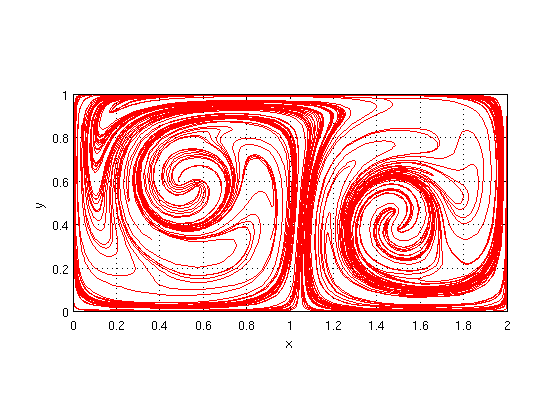
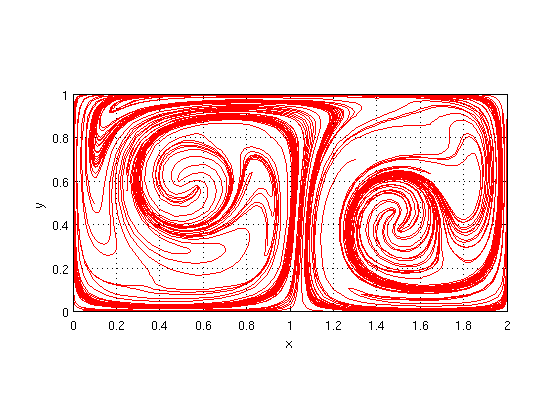
Update documentation with shearline analysis

Changed region(s): [[0.1214, 0.2167, 0.9107, 0.7429]]

diff --git a/html/lcs_user_guide.html b/html/lcs_user_guide.html
@@ -1,4 +1,3 @@
-
 <!DOCTYPE html
   PUBLIC "-//W3C//DTD HTML 4.01 Transitional//EN">
 <html><head>
@@ -6,7 +5,7 @@
    <!--
 This HTML was auto-generated from MATLAB code.
 To make changes, update the MATLAB code and republish this document.
-      --><title>Lagrangian Coherent Structures Toolbox User Guide</title><meta name="generator" content="MATLAB 7.14"><link rel="schema.DC" href="http://purl.org/dc/elements/1.1/"><meta name="DC.date" content="2012-09-06"><meta name="DC.source" content="lcs_user_guide.m"><style type="text/css">
+      --><title>Lagrangian Coherent Structures Toolbox User Guide</title><meta name="generator" content="MATLAB 7.14"><link rel="schema.DC" href="http://purl.org/dc/elements/1.1/"><meta name="DC.date" content="2012-09-10"><meta name="DC.source" content="lcs_user_guide.m"><style type="text/css">
 html,body,div,span,applet,object,iframe,h1,h2,h3,h4,h5,h6,p,blockquote,pre,a,abbr,acronym,address,big,cite,code,del,dfn,em,font,img,ins,kbd,q,s,samp,small,strike,strong,sub,sup,tt,var,b,u,i,center,dl,dt,dd,ol,ul,li,fieldset,form,label,legend,table,caption,tbody,tfoot,thead,tr,th,td{margin:0;padding:0;border:0;outline:0;font-size:100%;vertical-align:baseline;background:transparent}body{line-height:1}ol,ul{list-style:none}blockquote,q{quotes:none}blockquote:before,blockquote:after,q:before,q:after{content:'';content:none}:focus{outine:0}ins{text-decoration:none}del{text-decoration:line-through}table{border-collapse:collapse;border-spacing:0}
 
 html { min-height:100%; margin-bottom:1px; }
@@ -55,7 +54,7 @@ span.syscmd { color:#B28C00 }
 .footer { width:auto; padding:10px 0px; margin:25px 0px 0px; border-top:1px dotted #878787; font-size:0.8em; line-height:140%; font-style:italic; color:#878787; text-align:left; float:none; }
 .footer p { margin:0px; }
 
-  </style></head><body><div class="content"><h1>Lagrangian Coherent Structures Toolbox User Guide</h1><!--introduction--><!--/introduction--><h2>Contents</h2><div><ul><li><a href="#1">Introduction</a></li><li><a href="#2">Flow definition</a></li><li><a href="#4">Flow animation</a></li><li><a href="#6">Hyperbolic barriers</a></li><li><a href="#12">Parabolic barriers</a></li><li><a href="#13">Elliptic barriers</a></li></ul></div><h2>Introduction<a name="1"></a></h2><p>The LCS toolbox is demonstrated by analyzing a double gyre flow:</p><p><img src="lcs_user_guide_eq46362.png" alt="$\dot x = -\pi A \sin[-\pi f(x,t)] \cos(\pi y)$"></p><p><img src="lcs_user_guide_eq89183.png" alt="$\dot y = \pi A \cos[\pi f(x,t)] \sin(\pi y) \frac{\partial f(x,t)}{\partial x}$"></p><p>where</p><p><img src="lcs_user_guide_eq34228.png" alt="$f(x,t) = \epsilon \sin(\omega t)x^2 + [1 - 2 \epsilon \sin(\omega t)] x$"></p><p>and <img src="lcs_user_guide_eq31461.png" alt="$A$">, <img src="lcs_user_guide_eq97780.png" alt="$\epsilon$"> and <img src="lcs_user_guide_eq84050.png" alt="$\omega$"> are constants. Further details are availaibe in <a href="http://dx.doi.org/10.1016/j.physd.2005.10.007">DOI:10.1016/j.physd.2005.10.007</a>, <a href="http://dx.doi.org/10.5194/npg-7-59-2000">DOI:10.5194/npg-7-59-2000</a>, and <a href="http://dx.doi.org/10.5194/npg-4-223-1997">DOI:10.5194/npg-4-223-1997</a>.</p><h2>Flow definition<a name="2"></a></h2><p>The flow vector field is defined as a symbolic function. The definition for the double gyre is:</p><pre class="codeinput">t = sym(<span class="string">'t'</span>);
+  </style></head><body><div class="content"><h1>Lagrangian Coherent Structures Toolbox User Guide</h1><!--introduction--><!--/introduction--><h2>Contents</h2><div><ul><li><a href="#1">Introduction</a></li><li><a href="#2">Flow definition</a></li><li><a href="#4">Flow animation</a></li><li><a href="#6">Hyperbolic barriers</a></li><li><a href="#12">Parabolic barriers</a></li><li><a href="#17">Elliptic barriers</a></li></ul></div><h2>Introduction<a name="1"></a></h2><p>The LCS toolbox is demonstrated by analyzing a double gyre flow:</p><p><img src="lcs_user_guide_eq46362.png" alt="$\dot x = -\pi A \sin[-\pi f(x,t)] \cos(\pi y)$"></p><p><img src="lcs_user_guide_eq89183.png" alt="$\dot y = \pi A \cos[\pi f(x,t)] \sin(\pi y) \frac{\partial f(x,t)}{\partial x}$"></p><p>where</p><p><img src="lcs_user_guide_eq34228.png" alt="$f(x,t) = \epsilon \sin(\omega t)x^2 + [1 - 2 \epsilon \sin(\omega t)] x$"></p><p>and <img src="lcs_user_guide_eq31461.png" alt="$A$">, <img src="lcs_user_guide_eq97780.png" alt="$\epsilon$"> and <img src="lcs_user_guide_eq84050.png" alt="$\omega$"> are constants. Further details are availaibe in <a href="http://dx.doi.org/10.1016/j.physd.2005.10.007">DOI:10.1016/j.physd.2005.10.007</a>, <a href="http://dx.doi.org/10.5194/npg-7-59-2000">DOI:10.5194/npg-7-59-2000</a>, and <a href="http://dx.doi.org/10.5194/npg-4-223-1997">DOI:10.5194/npg-4-223-1997</a>.</p><h2>Flow definition<a name="2"></a></h2><p>The flow vector field is defined as a symbolic function. The definition for the double gyre is:</p><pre class="codeinput">t = sym(<span class="string">'t'</span>);
 x = sym(<span class="string">'x'</span>);
 y = sym(<span class="string">'y'</span>);
 
@@ -74,44 +73,77 @@ flow = set_flow_resolution(uint64([2 1]*10),flow);
 </pre><img vspace="5" hspace="5" src="lcs_user_guide_01.png" alt=""> <p>Parameters can be changed and the animation re-run. For example</p><pre class="codeinput">flow = set_flow_timespan([0 30],flow);
 flow = set_flow_resolution(uint64([2 1]*20),flow);
 flow = animate_flow(flow);
-</pre><img vspace="5" hspace="5" src="lcs_user_guide_02.png" alt=""> <h2>Hyperbolic barriers<a name="6"></a></h2><p>Strainlines are computed based on a resolution representing a grid of initial conditions:</p><pre class="codeinput">strainline = set_strainline_resolution(uint64([2 1]*5));
+</pre><img vspace="5" hspace="5" src="lcs_user_guide_02.png" alt=""> <h2>Hyperbolic barriers<a name="6"></a></h2><p>Hyperbolic barriers are obtained from strainlines. Strainlines are computed based on a resolution representing a grid of initial conditions:</p><pre class="codeinput">strainline = set_strainline_resolution(uint64([2 1]*5));
 </pre><p>A maximum length for strainlines must be specified. Strainlines are integrated until reaching the boundary. Nonetheless, a maximum length needs to be specified to bound integration time. This maximum length is found heuristically.</p><pre class="codeinput">strainline = set_strainline_max_length(10,strainline);
 </pre><p>The following parameters are used to filter LCSs from all calculated strainlines. To start, these parameters are set to display all strainlines.</p><pre class="codeinput">strainline = set_strainline_geodesic_deviation_tol(inf,strainline);
 strainline = set_strainline_length_tol(0,strainline);
 strainline.filteringMethod = <span class="string">'hausdorff'</span>;
 strainline.filteringDistanceTol = 0;
-</pre><p>This specifies everything necessary. The function strain_lcs_script is used to calculate hyperbolic barriers:</p><pre class="codeinput">doubleGyre = struct(<span class="string">'flow'</span>,flow,<span class="string">'strainline'</span>,strainline);
+</pre><p>This specifies everything necessary. The function strain_lcs_script is calculates and plots all strainlines:</p><pre class="codeinput">doubleGyre = struct(<span class="string">'flow'</span>,flow,<span class="string">'strainline'</span>,strainline);
 doubleGyre = strain_lcs_script(doubleGyre);
 </pre><pre class="codeoutput">
+Warning: 13 NaN points. Total number of points: 965 
 Geodesic deviation statistics:
-	minimum = 1.73995e-50
-	maximum = 2.01744e+21
-	mean = 2.35442e+18
-	median = 1.86834e-05
-Number of strainline segments: 45
-Number of LCS segments: 45
-</pre><img vspace="5" hspace="5" src="lcs_user_guide_03.png" alt=""> <p>The strainlines appear quite jagged. To fix this, the flow resolution needs to be increased and the ODE integration accuracy decreased.</p><pre class="codeinput">doubleGyre.flow = set_flow_resolution(uint64([2 1]*500),doubleGyre.flow);
-doubleGyre.strainline = set_strainline_ode_solver_options(odeset(<span class="string">'relTol'</span>,1e-6),doubleGyre.strainline);
+	minimum = 2.9576e-15
+	maximum = 301.543
+	mean = 1.37505
+	median = 1.55004e-06
+Number of strainline segments: 48
+Number of LCS segments: 48
+</pre>
+<img vspace="5" hspace="5" src="lcs_user_guide_03.png" alt="">
+<p>The strainlines appear quite jagged. To fix this, the flow resolution needs to be increased and the ODE integration error tolerance decreased.</p>
+<pre class="codeinput">doubleGyre.flow = set_flow_resolution(uint64([2 1]*1000),doubleGyre.flow);
+doubleGyre.strainline = set_strainline_ode_solver_options(<span class="keyword">...</span>
+    odeset(<span class="string">'relTol'</span>,1e-6),doubleGyre.strainline);
 load(<span class="string">'datasets/doubleGyre'</span>) <span class="comment">% Load precomputed data for speed</span>
 doubleGyre = strain_lcs_script(doubleGyre);
-</pre><pre class="codeoutput">Geodesic deviation statistics:
-	minimum = 1.12418e-49
-	maximum = 1.02952e+15
-	mean = 1.3878e+12
-	median = 4.00551e-05
-</pre><img vspace="5" hspace="5" src="lcs_user_guide_04.png" alt=""> <p>Filtering parameters are adjusted to find significant LCSs</p><pre class="codeinput">doubleGyre.strainline = set_strainline_geodesic_deviation_tol(.05,doubleGyre.strainline);
-doubleGyre.strainline = set_strainline_length_tol(.5,doubleGyre.strainline);
-doubleGyre.strainline = set_strainline_hausdorff_distance(.5,doubleGyre.strainline);
+</pre><pre class="codeoutput">Warning: 53 NaN points. Total number of points: 8856 
+Geodesic deviation statistics:
+	minimum = 2.00232e-24
+	maximum = 367.654
+	mean = 3.26391
+	median = 2.90031e-05
+</pre><img vspace="5" hspace="5" src="lcs_user_guide_04.png" alt=""> <p>Filtering parameters are adjusted to find significant hyperbolic barriers</p><pre class="codeinput">doubleGyre.strainline = set_strainline_geodesic_deviation_tol(.05,<span class="keyword">...</span>
+    doubleGyre.strainline);
+doubleGyre.strainline = set_strainline_length_tol(.5,<span class="keyword">...</span>
+    doubleGyre.strainline);
+doubleGyre.strainline = set_strainline_hausdorff_distance(.5,<span class="keyword">...</span>
+    doubleGyre.strainline);
 doubleGyre = strain_lcs_script(doubleGyre);
-</pre><pre class="codeoutput">Geodesic deviation statistics:
-	minimum = 1.12418e-49
-	maximum = 1.02952e+15
-	mean = 1.3878e+12
-	median = 4.00551e-05
-Number of strainline segments: 191
-Number of LCS segments: 9
-</pre><img vspace="5" hspace="5" src="lcs_user_guide_05.png" alt=""> <h2>Parabolic barriers<a name="12"></a></h2><h2>Elliptic barriers<a name="13"></a></h2><p class="footer"><br>
-      Published with MATLAB&reg; 7.14<br></p></div><!--
+</pre><pre class="codeoutput">Warning: 53 NaN points. Total number of points: 8856 
+Geodesic deviation statistics:
+	minimum = 2.00232e-24
+	maximum = 367.654
+	mean = 3.26391
+	median = 2.90031e-05
+Number of strainline segments: 116
+Number of LCS segments: 4
+</pre><img vspace="5" hspace="5" src="lcs_user_guide_05.png" alt=""> <h2>Parabolic barriers<a name="12"></a></h2><p>Parabolic barriers are obtained from shearlines. The calculation of shearlines is similar to strainlines. A grid of initial conditions is specified:</p><pre class="codeinput">doubleGyre.flow = set_flow_resolution(uint64([2 1]*50),doubleGyre.flow);
+doubleGyre.shearline = set_shearline_resolution(uint64([2 1]*5));
+</pre><p>A maximum length for shearlines is specified. This length is found heuristically</p><pre class="codeinput">doubleGyre.shearline = set_shearline_max_length(10,doubleGyre.shearline);
+</pre><p>The geodesic deviation is used as a filtering parameter</p><pre class="codeinput">doubleGyre.shearline = set_shearline_average_geodesic_deviation_tol(<span class="keyword">...</span>
+    [inf inf],doubleGyre.shearline);
+</pre><p>The ODE integration error tolerance should be decreased. Then the function shear_lcs_script calculates and plots all shearlines.</p><pre class="codeinput">doubleGyre.shearline = set_strainline_ode_solver_options(<span class="keyword">...</span>
+    odeset(<span class="string">'relTol'</span>,1e-6),doubleGyre.shearline);
+doubleGyre = shear_lcs_script(doubleGyre);
+</pre>
+<pre class="codeoutput">
+Warning: Nonpositive eigenvalues 
+Warning: averageGeodesicDeviation = inf workaround used 
+Warning: averageGeodesicDeviation = inf workaround used 
+</pre>
+<img vspace="5" hspace="5" src="lcs_user_guide_06.png" alt="">
+<p>Filtering parameters are adjusted to find significant shearlines</p>
+<pre class="codeinput">doubleGyre.shearline = set_shearline_average_geodesic_deviation_tol([1 1],doubleGyre.shearline);
+doubleGyre = shear_lcs_script(doubleGyre);
+</pre>
+<img vspace="5" hspace="5" src="lcs_user_guide_07.png" alt="">
+
+<h2>Elliptic barriers<a name="17"></a></h2>
+<p class="footer">
+<br>
+Published with MATLAB&reg; 7.14<br></p></div><!--
 ##### SOURCE BEGIN #####
 %% Lagrangian Coherent Structures Toolbox User Guide
 %
@@ -165,8 +197,8 @@ flow = set_flow_resolution(uint64([2 1]*20),flow);
 flow = animate_flow(flow);
 
 %% Hyperbolic barriers
-% Strainlines are computed based on a resolution representing a grid of 
-% initial conditions:
+% Hyperbolic barriers are obtained from strainlines. Strainlines are
+% computed based on a resolution representing a grid of initial conditions:
 strainline = set_strainline_resolution(uint64([2 1]*5));
 
 %%
@@ -187,27 +219,57 @@ strainline.filteringDistanceTol = 0;
 
 %%
 % This specifies everything necessary. The function strain_lcs_script is
-% used to calculate hyperbolic barriers:
+% calculates and plots all strainlines:
 doubleGyre = struct('flow',flow,'strainline',strainline);
 doubleGyre = strain_lcs_script(doubleGyre);
 
 %%
 % The strainlines appear quite jagged. To fix this, the flow resolution
-% needs to be increased and the ODE integration accuracy decreased.
+% needs to be increased and the ODE integration error tolerance decreased.
 doubleGyre.flow = set_flow_resolution(uint64([2 1]*500),doubleGyre.flow);
-doubleGyre.strainline = set_strainline_ode_solver_options(odeset('relTol',1e-6),doubleGyre.strainline);
+doubleGyre.strainline = set_strainline_ode_solver_options(...
+    odeset('relTol',1e-6),doubleGyre.strainline);
 load('datasets/doubleGyre') % Load precomputed data for speed
 doubleGyre = strain_lcs_script(doubleGyre);
 
 %%
-% Filtering parameters are adjusted to find significant LCSs
-doubleGyre.strainline = set_strainline_geodesic_deviation_tol(.05,doubleGyre.strainline);
-doubleGyre.strainline = set_strainline_length_tol(.5,doubleGyre.strainline);
-doubleGyre.strainline = set_strainline_hausdorff_distance(.5,doubleGyre.strainline);
+% Filtering parameters are adjusted to find significant hyperbolic barriers
+doubleGyre.strainline = set_strainline_geodesic_deviation_tol(.05,...
+    doubleGyre.strainline);
+doubleGyre.strainline = set_strainline_length_tol(.5,...
+    doubleGyre.strainline);
+doubleGyre.strainline = set_strainline_hausdorff_distance(.5,...
+    doubleGyre.strainline);
 doubleGyre = strain_lcs_script(doubleGyre);
 
 %% Parabolic barriers
-% 
+% Parabolic barriers are obtained from shearlines. The calculation of
+% shearlines is similar to strainlines. A grid of initial conditions is
+% specified:
+doubleGyre.flow = set_flow_resolution(uint64([2 1]*50),doubleGyre.flow);
+doubleGyre.shearline = set_shearline_resolution(uint64([2 1]*5));
+
+%%
+% A maximum length for shearlines is specified. This length is found
+% heuristically
+doubleGyre.shearline = set_shearline_max_length(10,doubleGyre.shearline);
+
+%%
+% The geodesic deviation is used as a filtering parameter
+doubleGyre.shearline = set_shearline_average_geodesic_deviation_tol(...
+    [inf inf],doubleGyre.shearline);
+
+%%
+% The ODE integration error tolerance should be decreased. Then the
+% function shear_lcs_script calculates and plots all shearlines.
+doubleGyre.shearline = set_strainline_ode_solver_options(...
+    odeset('relTol',1e-6),doubleGyre.shearline);
+doubleGyre = shear_lcs_script(doubleGyre);
+
+%%
+% Filtering parameters are adjusted to find significant shearlines
+doubleGyre.shearline = set_shearline_average_geodesic_deviation_tol([1 1],doubleGyre.shearline);
+doubleGyre = shear_lcs_script(doubleGyre);
 
 %% Elliptic barriers
 %

diff --git a/html/lcs_product_page.html b/html/lcs_product_page.html
@@ -6,7 +6,7 @@
    <!--
 This HTML was auto-generated from MATLAB code.
 To make changes, update the MATLAB code and republish this document.
-      --><title>Lagrangian Coherent Structures Toolbox</title><meta name="generator" content="MATLAB 7.14"><link rel="schema.DC" href="http://purl.org/dc/elements/1.1/"><meta name="DC.date" content="2012-09-06"><meta name="DC.source" content="lcs_product_page.m"><style type="text/css">
+      --><title>Lagrangian Coherent Structures Toolbox</title><meta name="generator" content="MATLAB 7.14"><link rel="schema.DC" href="http://purl.org/dc/elements/1.1/"><meta name="DC.date" content="2012-09-10"><meta name="DC.source" content="lcs_product_page.m"><style type="text/css">
 html,body,div,span,applet,object,iframe,h1,h2,h3,h4,h5,h6,p,blockquote,pre,a,abbr,acronym,address,big,cite,code,del,dfn,em,font,img,ins,kbd,q,s,samp,small,strike,strong,sub,sup,tt,var,b,u,i,center,dl,dt,dd,ol,ul,li,fieldset,form,label,legend,table,caption,tbody,tfoot,thead,tr,th,td{margin:0;padding:0;border:0;outline:0;font-size:100%;vertical-align:baseline;background:transparent}body{line-height:1}ol,ul{list-style:none}blockquote,q{quotes:none}blockquote:before,blockquote:after,q:before,q:after{content:'';content:none}:focus{outine:0}ins{text-decoration:none}del{text-decoration:line-through}table{border-collapse:collapse;border-spacing:0}
 
 html { min-height:100%; margin-bottom:1px; }

diff --git a/html/strain_lcs_script_help.html b/html/strain_lcs_script_help.html
@@ -6,7 +6,7 @@
    <!--
 This HTML was auto-generated from MATLAB code.
 To make changes, update the MATLAB code and republish this document.
-      --><title>strain_lcs_script</title><meta name="generator" content="MATLAB 7.14"><link rel="schema.DC" href="http://purl.org/dc/elements/1.1/"><meta name="DC.date" content="2012-09-06"><meta name="DC.source" content="strain_lcs_script_help.m"><style type="text/css">
+      --><title>strain_lcs_script</title><meta name="generator" content="MATLAB 7.14"><link rel="schema.DC" href="http://purl.org/dc/elements/1.1/"><meta name="DC.date" content="2012-09-10"><meta name="DC.source" content="strain_lcs_script_help.m"><style type="text/css">
 html,body,div,span,applet,object,iframe,h1,h2,h3,h4,h5,h6,p,blockquote,pre,a,abbr,acronym,address,big,cite,code,del,dfn,em,font,img,ins,kbd,q,s,samp,small,strike,strong,sub,sup,tt,var,b,u,i,center,dl,dt,dd,ol,ul,li,fieldset,form,label,legend,table,caption,tbody,tfoot,thead,tr,th,td{margin:0;padding:0;border:0;outline:0;font-size:100%;vertical-align:baseline;background:transparent}body{line-height:1}ol,ul{list-style:none}blockquote,q{quotes:none}blockquote:before,blockquote:after,q:before,q:after{content:'';content:none}:focus{outine:0}ins{text-decoration:none}del{text-decoration:line-through}table{border-collapse:collapse;border-spacing:0}
 
 html { min-height:100%; margin-bottom:1px; }

diff --git a/html/lcs_functions.html b/html/lcs_functions.html
@@ -6,7 +6,7 @@
    <!--
 This HTML was auto-generated from MATLAB code.
 To make changes, update the MATLAB code and republish this document.
-      --><title>Function Reference</title><meta name="generator" content="MATLAB 7.14"><link rel="schema.DC" href="http://purl.org/dc/elements/1.1/"><meta name="DC.date" content="2012-09-06"><meta name="DC.source" content="lcs_functions.m"><style type="text/css">
+      --><title>Function Reference</title><meta name="generator" content="MATLAB 7.14"><link rel="schema.DC" href="http://purl.org/dc/elements/1.1/"><meta name="DC.date" content="2012-09-10"><meta name="DC.source" content="lcs_functions.m"><style type="text/css">
 html,body,div,span,applet,object,iframe,h1,h2,h3,h4,h5,h6,p,blockquote,pre,a,abbr,acronym,address,big,cite,code,del,dfn,em,font,img,ins,kbd,q,s,samp,small,strike,strong,sub,sup,tt,var,b,u,i,center,dl,dt,dd,ol,ul,li,fieldset,form,label,legend,table,caption,tbody,tfoot,thead,tr,th,td{margin:0;padding:0;border:0;outline:0;font-size:100%;vertical-align:baseline;background:transparent}body{line-height:1}ol,ul{list-style:none}blockquote,q{quotes:none}blockquote:before,blockquote:after,q:before,q:after{content:'';content:none}:focus{outine:0}ins{text-decoration:none}del{text-decoration:line-through}table{border-collapse:collapse;border-spacing:0}
 
 html { min-height:100%; margin-bottom:1px; }

diff --git a/html/animate_flow_help.html b/html/animate_flow_help.html
@@ -6,7 +6,7 @@
    <!--
 This HTML was auto-generated from MATLAB code.
 To make changes, update the MATLAB code and republish this document.
-      --><title>animate_flow</title><meta name="generator" content="MATLAB 7.14"><link rel="schema.DC" href="http://purl.org/dc/elements/1.1/"><meta name="DC.date" content="2012-09-06"><meta name="DC.source" content="animate_flow_help.m"><style type="text/css">
+      --><title>animate_flow</title><meta name="generator" content="MATLAB 7.14"><link rel="schema.DC" href="http://purl.org/dc/elements/1.1/"><meta name="DC.date" content="2012-09-10"><meta name="DC.source" content="animate_flow_help.m"><style type="text/css">
 html,body,div,span,applet,object,iframe,h1,h2,h3,h4,h5,h6,p,blockquote,pre,a,abbr,acronym,address,big,cite,code,del,dfn,em,font,img,ins,kbd,q,s,samp,small,strike,strong,sub,sup,tt,var,b,u,i,center,dl,dt,dd,ol,ul,li,fieldset,form,label,legend,table,caption,tbody,tfoot,thead,tr,th,td{margin:0;padding:0;border:0;outline:0;font-size:100%;vertical-align:baseline;background:transparent}body{line-height:1}ol,ul{list-style:none}blockquote,q{quotes:none}blockquote:before,blockquote:after,q:before,q:after{content:'';content:none}:focus{outine:0}ins{text-decoration:none}del{text-decoration:line-through}table{border-collapse:collapse;border-spacing:0}
 
 html { min-height:100%; margin-bottom:1px; }

diff --git a/lcs_user_guide.m b/lcs_user_guide.m
@@ -50,8 +50,8 @@ flow = set_flow_resolution(uint64([2 1]*20),flow);
 flow = animate_flow(flow);
 
 %% Hyperbolic barriers
-% Strainlines are computed based on a resolution representing a grid of 
-% initial conditions:
+% Hyperbolic barriers are obtained from strainlines. Strainlines are
+% computed based on a resolution representing a grid of initial conditions:
 strainline = set_strainline_resolution(uint64([2 1]*5));
 
 %%
@@ -72,27 +72,57 @@ strainline.filteringDistanceTol = 0;
 
 %%
 % This specifies everything necessary. The function strain_lcs_script is
-% used to calculate hyperbolic barriers:
+% calculates and plots all strainlines:
 doubleGyre = struct('flow',flow,'strainline',strainline);
 doubleGyre = strain_lcs_script(doubleGyre);
 
 %%
 % The strainlines appear quite jagged. To fix this, the flow resolution
-% needs to be increased and the ODE integration accuracy decreased.
-doubleGyre.flow = set_flow_resolution(uint64([2 1]*500),doubleGyre.flow);
-doubleGyre.strainline = set_strainline_ode_solver_options(odeset('relTol',1e-6),doubleGyre.strainline);
+% needs to be increased and the ODE integration error tolerance decreased.
+doubleGyre.flow = set_flow_resolution(uint64([2 1]*1000),doubleGyre.flow);
+doubleGyre.strainline = set_strainline_ode_solver_options(...
+    odeset('relTol',1e-6),doubleGyre.strainline);
 load('datasets/doubleGyre') % Load precomputed data for speed
 doubleGyre = strain_lcs_script(doubleGyre);
 
 %%
-% Filtering parameters are adjusted to find significant LCSs
-doubleGyre.strainline = set_strainline_geodesic_deviation_tol(.05,doubleGyre.strainline);
-doubleGyre.strainline = set_strainline_length_tol(.5,doubleGyre.strainline);
-doubleGyre.strainline = set_strainline_hausdorff_distance(.5,doubleGyre.strainline);
+% Filtering parameters are adjusted to find significant hyperbolic barriers
+doubleGyre.strainline = set_strainline_geodesic_deviation_tol(.05,...
+    doubleGyre.strainline);
+doubleGyre.strainline = set_strainline_length_tol(.5,...
+    doubleGyre.strainline);
+doubleGyre.strainline = set_strainline_hausdorff_distance(.5,...
+    doubleGyre.strainline);
 doubleGyre = strain_lcs_script(doubleGyre);
 
 %% Parabolic barriers
-% 
+% Parabolic barriers are obtained from shearlines. The calculation of
+% shearlines is similar to strainlines. A grid of initial conditions is
+% specified:
+doubleGyre.flow = set_flow_resolution(uint64([2 1]*50),doubleGyre.flow);
+doubleGyre.shearline = set_shearline_resolution(uint64([2 1]*5));
+
+%%
+% A maximum length for shearlines is specified. This length is found
+% heuristically
+doubleGyre.shearline = set_shearline_max_length(10,doubleGyre.shearline);
+
+%%
+% The geodesic deviation is used as a filtering parameter
+doubleGyre.shearline = set_shearline_average_geodesic_deviation_tol(...
+    [inf inf],doubleGyre.shearline);
+
+%%
+% The ODE integration error tolerance should be decreased. Then the
+% function shear_lcs_script calculates and plots all shearlines.
+doubleGyre.shearline = set_strainline_ode_solver_options(...
+    odeset('relTol',1e-6),doubleGyre.shearline);
+doubleGyre = shear_lcs_script(doubleGyre);
+
+%%
+% Filtering parameters are adjusted to find significant shearlines
+doubleGyre.shearline = set_shearline_average_geodesic_deviation_tol([1 1],doubleGyre.shearline);
+doubleGyre = shear_lcs_script(doubleGyre);
 
 %% Elliptic barriers
 %
